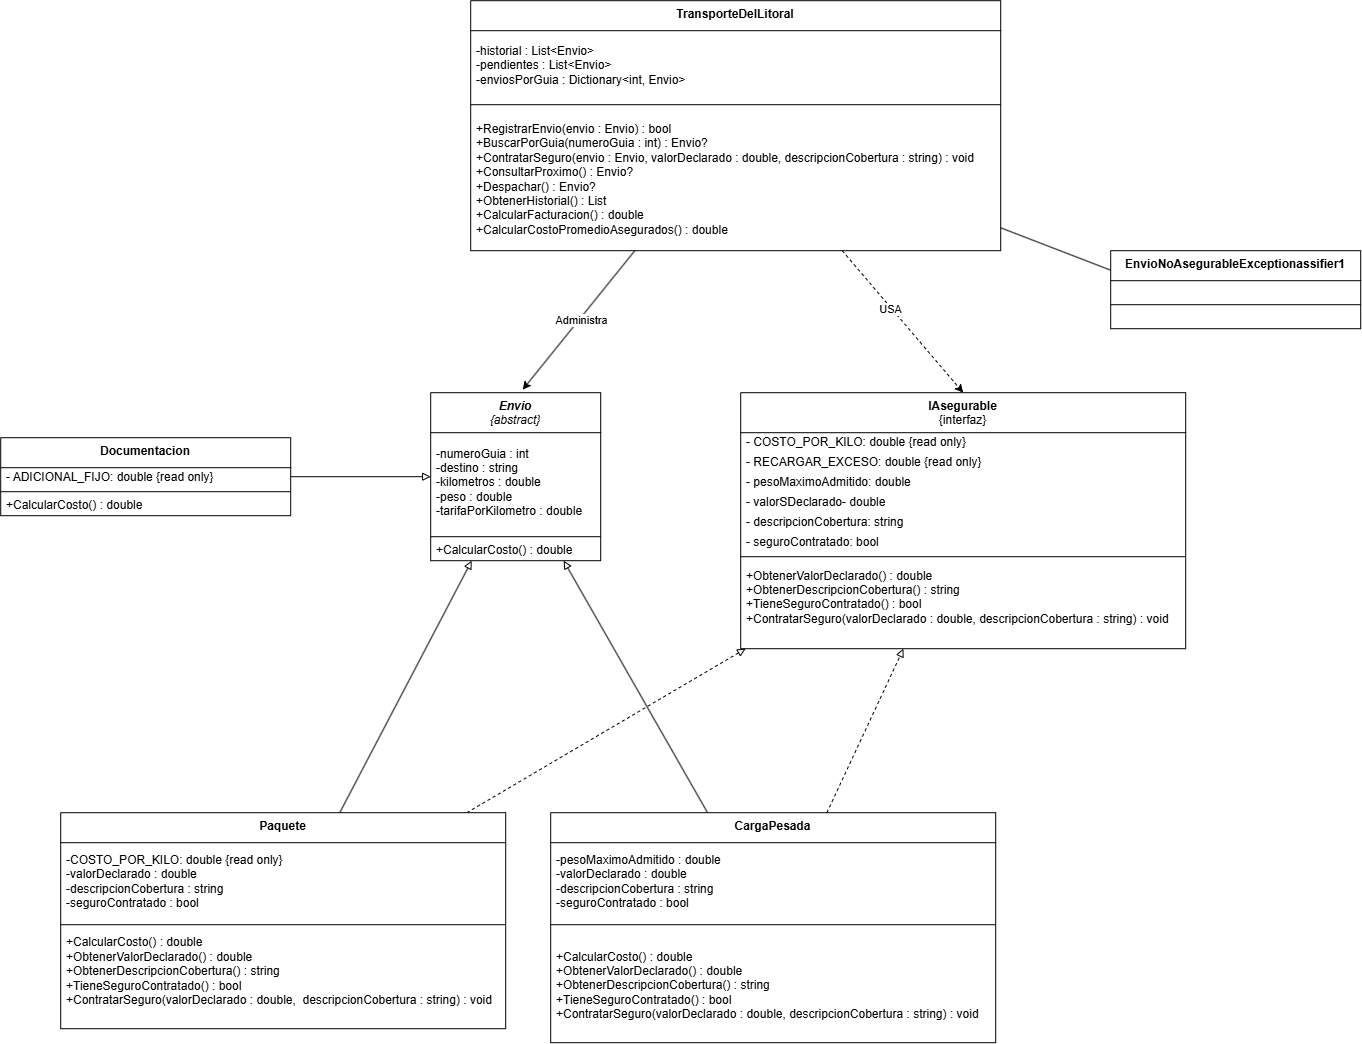
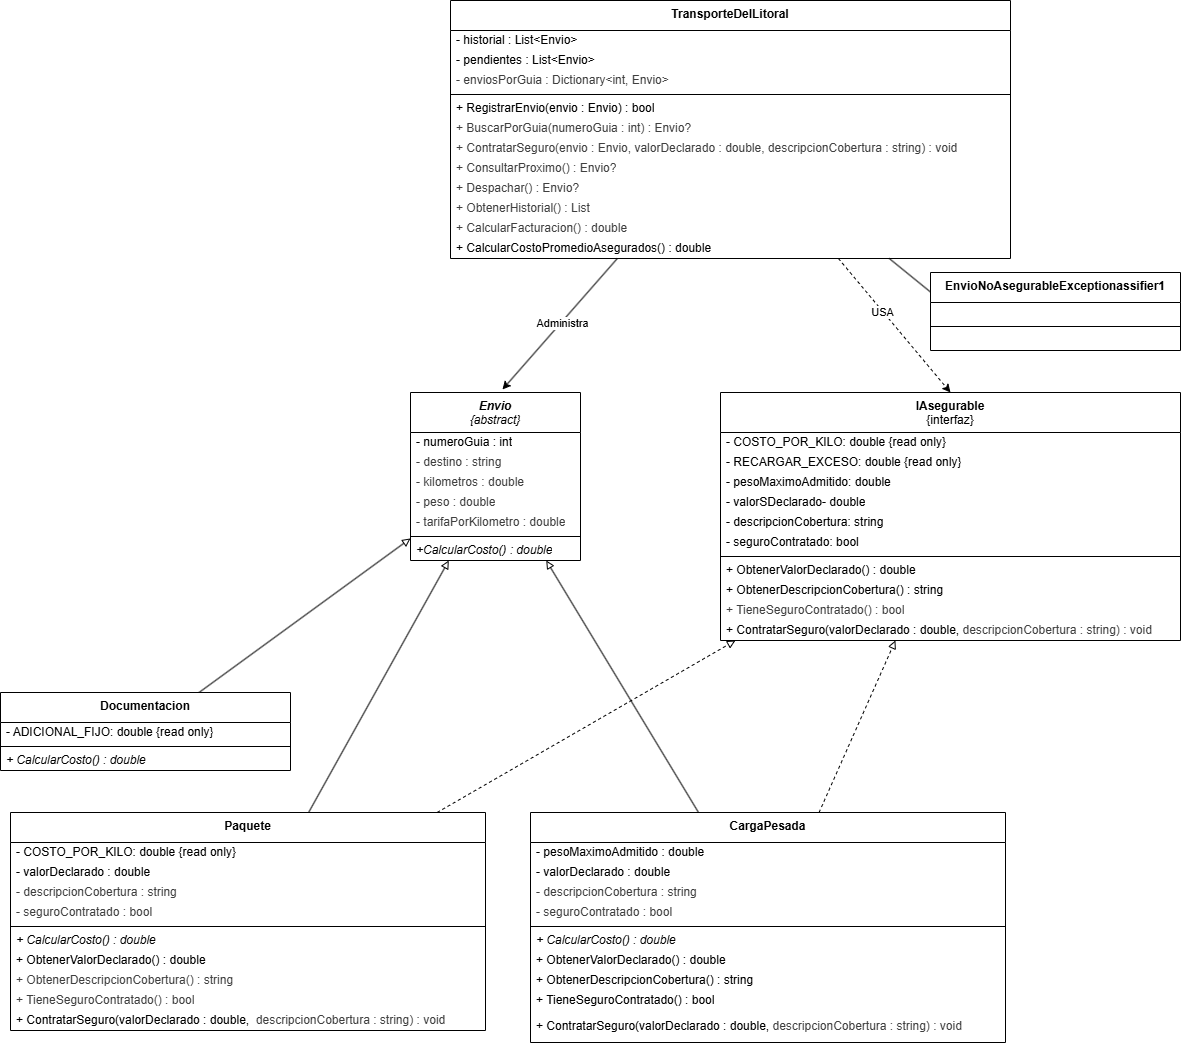
Subimos las modificaciones

diff --git a/src/1erParcialWork/CargaPesada.cs b/src/1erParcialWork/CargaPesada.cs
@@ -2,6 +2,8 @@ namespace MisClases;
 
 public class CargaPesada : Envio, IAsegurable
 {
+    // 1. CAMPOS / ATRIBUTOS
+
     private static readonly double COSTO_POR_KILO = 200;
     private static readonly double RECARGO_EXCESO = 20000;
 
@@ -10,19 +12,20 @@ public class CargaPesada : Envio, IAsegurable
     private string descripcionCobertura;
     private bool seguroContratado;
 
+    // 2. CONSTRUCTOR
     public CargaPesada(
-        int numeroGuia,
-        string destino,
-        double kilometros,
-        double peso,
-        double tarifaPorKilometro,
-        double pesoMaximoAdmitido)
-        : base(
-            numeroGuia,
-            destino,
-            kilometros,
-            peso,
-            tarifaPorKilometro)
+    int numeroGuia,
+    string destino,
+    double kilometros,
+    double peso,
+    double tarifaPorKilometro,
+    double pesoMaximoAdmitido)
+    : base(
+        numeroGuia,
+        destino,
+        kilometros,
+        peso,
+        tarifaPorKilometro)
     {
         this.pesoMaximoAdmitido = pesoMaximoAdmitido;
 
@@ -31,6 +34,8 @@ public class CargaPesada : Envio, IAsegurable
         seguroContratado = false;
     }
 
+    // 3. PROPIEDADES / GETTERS Y SETTERS
+    // 4. MÉTODOS
     public override double CalcularCosto()
     {
         double costoDistancia = Kilometros * TarifaPorKilometro;

diff --git a/src/1erParcialWork/Envio.cs b/src/1erParcialWork/Envio.cs
@@ -2,12 +2,14 @@ namespace MisClases;
 
 public abstract class Envio
 {
+    // 1. CAMPOS / ATRIBUTOS
     private int numeroGuia;
     private string destino;
     private double kilometros;
     private double peso;
     private double tarifaPorKilometro;
 
+    // 2. CONSTRUCTOR
     protected Envio(
         int numeroGuia,
         string destino,
@@ -22,18 +24,13 @@ public abstract class Envio
         this.tarifaPorKilometro = tarifaPorKilometro;
     }
 
-    public int NumeroGuia
-    {
-        get { return numeroGuia; }
-    }
-
+    // 3. PROPIEDADES / GETTERS Y SETTERS
+    public int NumeroGuia { get { return numeroGuia; } }
     public string Destino { get { return destino; } }
-
     protected double Kilometros { get { return kilometros; } }
-
     protected double Peso { get { return peso; } }
 
+    // 4. MÉTODOS
     protected double TarifaPorKilometro { get { return tarifaPorKilometro; } }
-
-    public abstract double CalcularCosto();
+    public abstract double CalcularCosto(); // Abstracto
 }

diff --git a/src/1erParcialWork/Documentacion.cs b/src/1erParcialWork/Documentacion.cs
@@ -2,23 +2,27 @@ namespace MisClases;
 
 public class Documentacion : Envio
 {
+    // 1. CAMPOS / ATRIBUTOS
     private static readonly double ADICIONAL_FIJO = 1000;
 
+    // 2. CONSTRUCTOR
     public Documentacion(
-        int numeroGuia,
-        string destino,
-        double kilometros,
-        double peso,
-        double tarifaPorKilometro)
-        : base(
-            numeroGuia,
-            destino,
-            kilometros,
-            peso,
-            tarifaPorKilometro)
+    int numeroGuia,
+    string destino,
+    double kilometros,
+    double peso,
+    double tarifaPorKilometro)
+    : base(
+        numeroGuia,
+        destino,
+        kilometros,
+        peso,
+        tarifaPorKilometro)
     {
     }
 
+    // 3. PROPIEDADES / GETTERS Y SETTERS
+    // 4. MÉTODOS
     public override double CalcularCosto()
     {
         double costoDistancia = Kilometros * TarifaPorKilometro;

diff --git a/src/1erParcialWork/Paquete.cs b/src/1erParcialWork/Paquete.cs
@@ -2,12 +2,14 @@ namespace MisClases;
 
 public class Paquete : Envio, IAsegurable
 {
+    // 1. CAMPOS / ATRIBUTOS
     private static readonly double COSTO_POR_KILO = 300;
 
     private double valorDeclarado;
     private string descripcionCobertura;
     private bool seguroContratado;
 
+    // 2. CONSTRUCTOR
     public Paquete(
         int numeroGuia,
         string destino,
@@ -25,7 +27,8 @@ public class Paquete : Envio, IAsegurable
         descripcionCobertura = "";
         seguroContratado = false;
     }
-
+    // 3. PROPIEDADES / GETTERS Y SETTERS
+    // 4. MÉTODOS
     public override double CalcularCosto()
     {
         double costoDistancia = Kilometros * TarifaPorKilometro;
@@ -48,7 +51,6 @@ public class Paquete : Envio, IAsegurable
     {
         return seguroContratado;
     }
-
     public void ContratarSeguro(
         double valorDeclarado,
         string descripcionCobertura)

diff --git a/src/1erParcialWork/TransportesDelLitoral.cs b/src/1erParcialWork/TransportesDelLitoral.cs
@@ -1,13 +1,14 @@
 using System.Collections.Generic;
-
 namespace MisClases;
 
 public class TransportesDelLitoral
 {
+    // 1. CAMPOS / ATRIBUTOS
     private List<Envio> historial;
     private List<Envio> pendientes;
     private Dictionary<int, Envio> enviosPorGuia;
 
+    // 2. CONSTRUCTOR
     public TransportesDelLitoral()
     {
         historial = new List<Envio>();
@@ -15,6 +16,8 @@ public class TransportesDelLitoral
         enviosPorGuia = new Dictionary<int, Envio>();
     }
 
+    // 3. PROPIEDADES / GETTERS Y SETTERS
+    // 4. MÉTODOS
     public bool RegistrarEnvio(Envio envio)
     {
         if (enviosPorGuia.ContainsKey(envio.NumeroGuia))

diff --git a/src/1erParcialWork/IAsegurable.cs b/src/1erParcialWork/IAsegurable.cs
@@ -2,12 +2,15 @@ namespace MisClases;
 
 public interface IAsegurable
 {
+    // 1. CAMPOS / ATRIBUTOS
     double ObtenerValorDeclarado();
 
+    // 2. CONSTRUCTOR
+    // 3. PROPIEDADES / GETTERS Y SETTERS
+    // 4. MÉTODOS
+
     string ObtenerDescripcionCobertura();
-
     bool TieneSeguroContratado();
-
     void ContratarSeguro(
         double valorDeclarado,
         string descripcionCobertura);

diff --git a/baseDelProyecto.md b/baseDelProyecto.md
@@ -84,7 +84,7 @@ El material oficial usa consistentemente `static void Main(string[] args)`.
 ```csharp
 public class Program
 {
-    public static void Main()
+    public static void Main() // static void Main(string[] args) { }
     {
     }
 }
@@ -125,6 +125,18 @@ public class Clase
 
     // 4. MÉTODOS
     // Comportamiento del objeto.
+}
+```
+
+1.1 Resumido
+
+```csharp
+public class Clase
+{
+    // 1. CAMPOS / ATRIBUTOS
+    // 2. CONSTRUCTOR
+    // 3. PROPIEDADES / GETTERS Y SETTERS
+    // 4. MÉTODOS
 }
 ```
 
